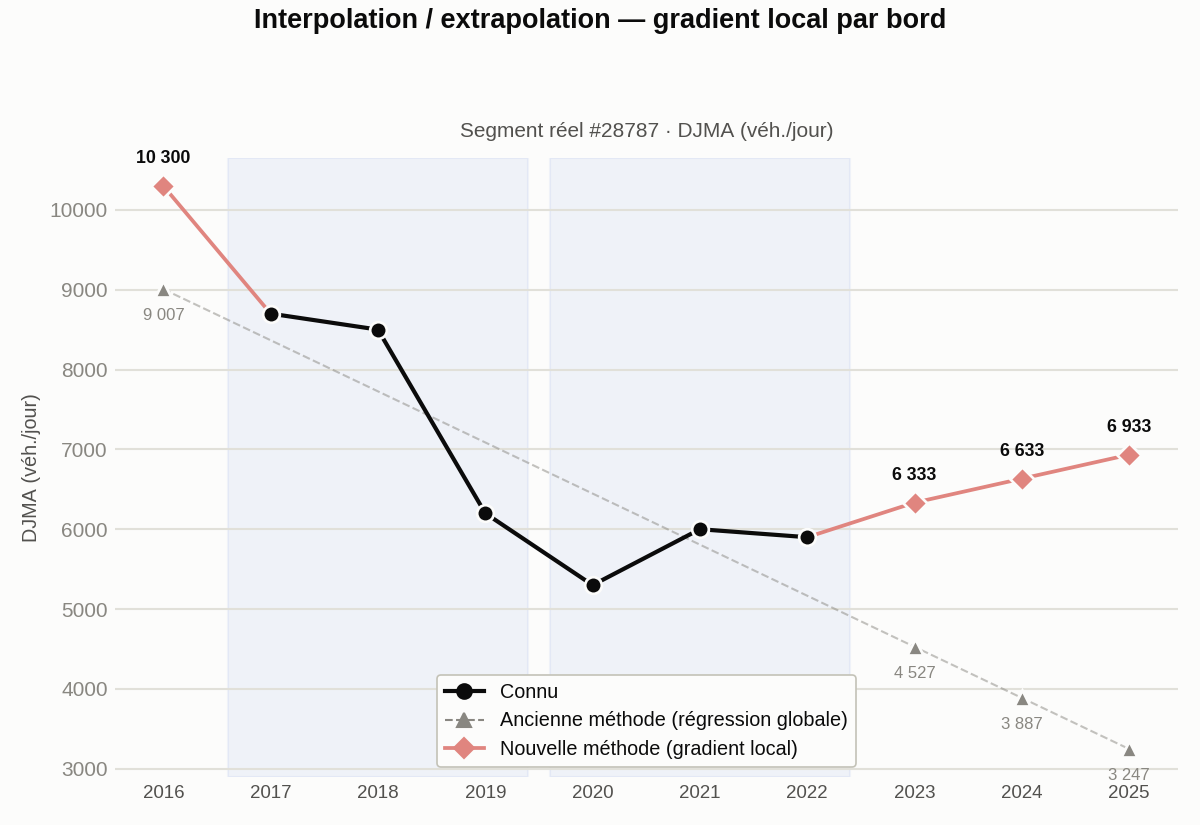
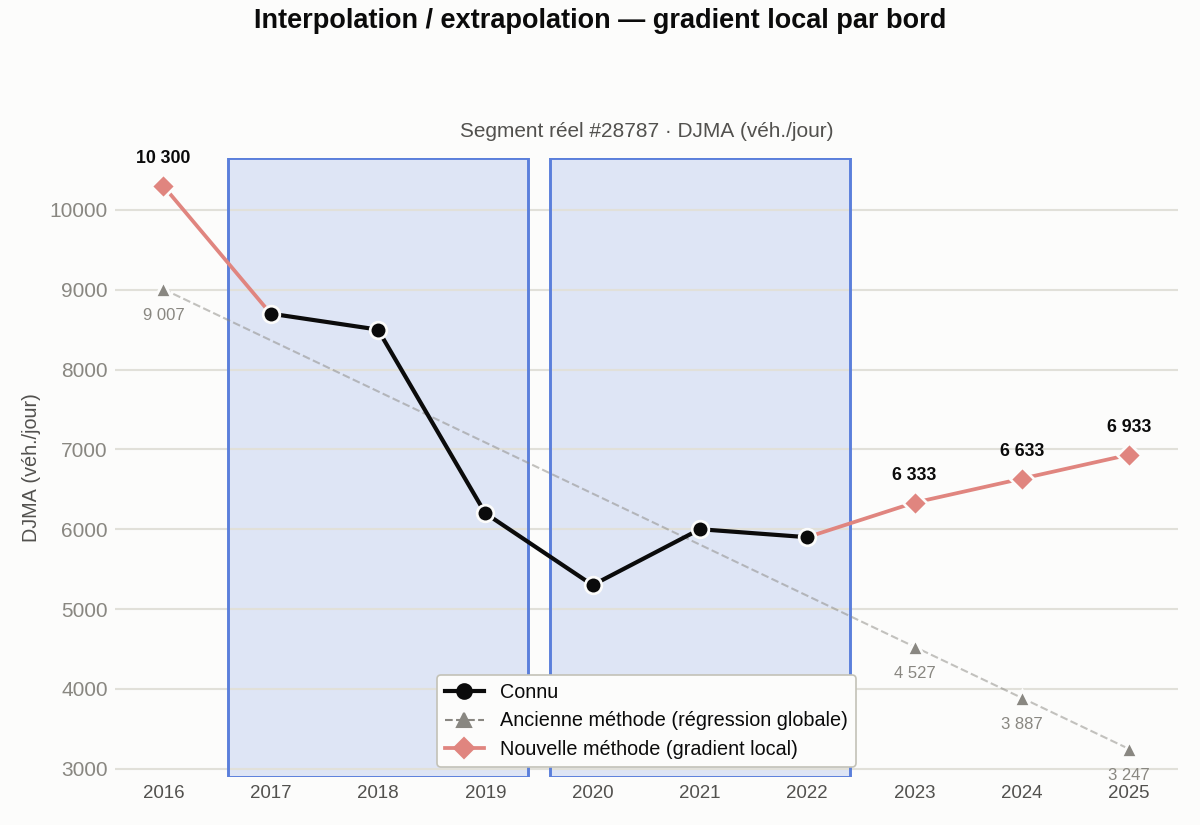
feat: figure segments par arc (routage) + encadrés gradient local plus visibles
- segments_par_arc.png : nb de segments DJMA par arc, brut et normalisé
  (segments/km), pour évaluer arc par arc la méthode d'agrégation la mieux
  justifiée par la taille d'échantillon disponible
- extrapolation_gradient.png : encadrés du gradient local par bord assombris
  (remplissage + contour) pour qu'ils ressortent nettement

Changed region(s): [[0.4317, 0.1818, 0.4625, 0.8182], [0.6783, 0.1818, 0.7092, 0.2121], [0.185, 0.1818, 0.2158, 0.2121]]

diff --git a/scripts/generer_figures_resultats.py b/scripts/generer_figures_resultats.py
@@ -15,6 +15,8 @@ Génère 5 PNG dans figures/ :
      carte du Québec — fusionne les anciennes carte_reseau_djma.png/carte_resultats.png
   5. carte_montreal_resultats.png    : zoom Grand Montréal de la carte précédente —
      rend lisibles les échecs intraurbains, trop denses à l'échelle du Québec
+  6. segments_par_arc.png            : nombre de segments DJMA par arc, brut et
+     normalisé (segments/km) — taille d'échantillon disponible par arc
 """
 
 from pathlib import Path
@@ -406,6 +408,79 @@ def figure_carte_montreal_resultats() -> None:
     print(f"  carte_montreal_resultats.png ({len(echec_intra)} échecs dans le zoom, {len(ok)} arcs OK)")
 
 
+def figure_segments_par_arc() -> None:
+    """Nombre de segments DJMA par arc — brut et normalisé (densité par km).
+
+    Deux volets, purement descriptifs : combien de segments MTQ le routage
+    associe-t-il à chaque arc (brut), et cette quantité tient-elle uniquement à
+    la longueur de l'arc une fois normalisée (segments / km) ? Sert à juger,
+    arc par arc, si l'échantillon DJMA disponible justifie une méthode
+    d'agrégation plutôt qu'une autre (m1-m4) — le choix lui-même reste hors de
+    cette figure.
+    """
+    arcs = gpd.read_file(ARCS_FILE, layer=ARCS_LAYER)[
+        ["VILLE_A", "VILLE_B", "statut", "n_segs_djma", "longueur_trace_km"]
+    ]
+    ok = arcs[arcs["statut"] == "ok"].copy()
+    ok["densite"] = ok["n_segs_djma"] / ok["longueur_trace_km"]
+
+    def _nom_lisible(nom: str) -> str:
+        """Corrige pour l'affichage l'encodage déjà corrompu de certains noms de
+        communautés autochtones dans la donnée source (raw, non modifiable, cf.
+        CLAUDE.md) — même logique que le contournement pour "MontrÃ©al" dans
+        figure_carte_montreal_resultats() : lecture seule, aucun fichier réécrit.
+        Le nom corrigé combine souvent un préfixe en syllabique autochtone (ex.
+        "ᐐᒥᓂᒌ Wemindji") que la police Arimo ne sait pas rendre (tofu) — on ne
+        garde alors que la partie latine, après le dernier espace."""
+        try:
+            fixed = nom.encode("latin1").decode("utf-8")
+        except (UnicodeEncodeError, UnicodeDecodeError):
+            fixed = nom
+        if any(ord(c) > 0x2FF for c in fixed) and " " in fixed:
+            fixed = fixed.rsplit(" ", 1)[-1]
+        return fixed
+
+    fig, (ax_brut, ax_norm) = plt.subplots(1, 2, figsize=(13, 5.8))
+
+    for ax, colonne, ylabel, sous_titre in (
+        (ax_brut, "n_segs_djma", "Segments DJMA retenus par arc (n)", "Brut"),
+        (ax_norm, "densite", "Segments DJMA par km (densité)", "Normalisé — segments / km"),
+    ):
+        ax.scatter(ok["longueur_trace_km"], ok[colonne],
+                   s=24, alpha=0.55, color=BLEU_450, linewidths=0, zorder=2)
+        ax.set_xscale("log")
+        ax.set_yscale("log")
+        ax.set_xlabel("Longueur de l'arc (km, échelle log)")
+        ax.set_ylabel(ylabel)
+        ax.set_title(sous_titre, fontsize=10.5, color=GRIS_AXE, pad=8)
+        ax.spines[["top", "right"]].set_visible(False)
+
+    # Extrêmes de densité — les deux bouts de la distribution normalisée, pour
+    # ancrer la lecture (dense vs quasi vide). Décalages alternés (haut/bas) pour
+    # que les points voisins (ex. Boisbriand/Candiac, proches en périphérie de
+    # Montréal) ne se chevauchent pas.
+    extremes = pd.concat([ok.nlargest(2, "densite"), ok.nsmallest(2, "densite")])
+    for i, (_, row) in enumerate(extremes.iterrows()):
+        dy = 8 if i % 2 == 0 else -12
+        ax_norm.annotate(
+            f"{_nom_lisible(row['VILLE_A'])}–{_nom_lisible(row['VILLE_B'])}",
+            (row["longueur_trace_km"], row["densite"]),
+            textcoords="offset points", xytext=(6, dy), fontsize=7.5, color=GRIS_AXE,
+            va="bottom" if dy > 0 else "top",
+        )
+
+    entete_figure(
+        fig, ax_brut, "Segments DJMA par arc",
+        f"{len(ok)} arcs routés · médiane {ok['n_segs_djma'].median():.0f} segments, "
+        f"{ok['densite'].median():.2f} seg/km",
+        y=0.98,
+    )
+    fig.tight_layout(rect=(0, 0, 1, 0.92))
+    fig.savefig(FIG_DIR / "segments_par_arc.png", dpi=150)
+    plt.close(fig)
+    print(f"  segments_par_arc.png ({len(ok)} arcs, médiane {ok['n_segs_djma'].median():.0f} segments)")
+
+
 def main() -> None:
     FIG_DIR.mkdir(exist_ok=True)
     print("Génération des figures...")
@@ -415,6 +490,7 @@ def main() -> None:
     figure_carte_divergence_methodes()
     figure_carte_reseau_resultats()
     figure_carte_montreal_resultats()
+    figure_segments_par_arc()
     print(f"\nTerminé — figures dans {FIG_DIR}")
 
 

diff --git a/scripts/generer_figure_donnees.py b/scripts/generer_figure_donnees.py
@@ -352,8 +352,9 @@ def figure_extrapolation_gradient() -> None:
     fig, ax = plt.subplots(figsize=(8, 5.5))
 
     for fenetre in (idx_ok[:FENETRE_GRADIENT], idx_ok[-FENETRE_GRADIENT:]):
-        ax.axvspan(annees_c[fenetre[0]] - 0.4, annees_c[fenetre[-1]] + 0.4,
-                  color=BLEU_NOEUD, alpha=0.08, zorder=0)
+        x0, x1 = annees_c[fenetre[0]] - 0.4, annees_c[fenetre[-1]] + 0.4
+        ax.axvspan(x0, x1, facecolor=BLEU_NOEUD, alpha=0.18, zorder=0)
+        ax.axvspan(x0, x1, facecolor="none", edgecolor=BLEU_NOEUD, linewidth=1.4, zorder=1)
 
     ax.plot(annees_c, ancienne_c, color=MUET, linewidth=1, linestyle="--", alpha=0.5, zorder=1)
     ax.plot(annees_c[manquants], ancienne_c[manquants], color=MUET, linewidth=0, zorder=2,

diff --git a/docs/routage.md b/docs/routage.md
@@ -31,6 +31,14 @@ def filtre_proximite_ab(segs, pt_a, pt_b, buffer_ab_m):
 
 Un clip préalable au territoire québécois (buffer 2 km autour du réseau RTSS) supprime aussi les détours par d'autres provinces avant la recherche de segments DJMA.
 
+### Segments par arc
+
+Le nombre de segments DJMA retenus (`n_segs_djma`) varie fortement d'un arc à l'autre — de 1 à 108 sur les 285 arcs routés avec succès, médiane à 8. Ce n'est pas qu'une question de longueur : la corrélation entre la longueur d'un arc et son nombre de segments est quasi nulle (≈ 0.02), comme le montre la densité normalisée (segments/km) à droite — de longs corridors peuvent n'avoir capté que 1-2 segments, et de courts tronçons périurbains plusieurs dizaines.
+
+![Segments DJMA par arc — brut et normalisé](../figures/segments_par_arc.png)
+
+Cette taille d'échantillon par arc sert de base pour évaluer, arc par arc, quelle méthode d'agrégation DJMA (m1-m4, voir [Méthodes](methodes.md)) est la mieux justifiée.
+
 ---
 
 [← Complétion](completion.md) · [Méthodes →](methodes.md) · [README](../README.md)
